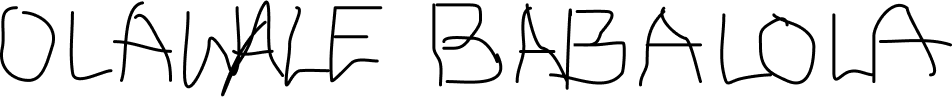
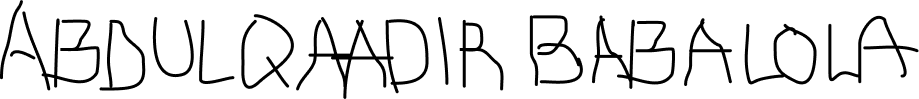
Changed signature and made the footer simple

Changed region(s): [[0.0, 0.0, 1.0, 1.0]]

diff --git a/src/App.tsx b/src/App.tsx
@@ -181,32 +181,31 @@ function App() {
       </main>
 
       {/* Footer */}
-      {/* <footer className="relative z-10 border-t border-gray-800"> */}
-        <div className="container mx-auto">
-
-          <div className="grid grid-cols-2 gap-4 md:flex-row justify-evenly items-center space-y-6 md:space-y-0">
-            <div className="flex flex-wrap justify-center md:justify-start gap-4 sm:gap-6 md:gap-8 sm:p-10 sm:bg-white sm:rounded-3xl">
-              <a href="#" className={`${isDarkMode ? 'text-gray-400 hover:text-white' : 'text-gray-600 hover:text-gray-900'} transition-colors duration-300`}>About us</a>
-              <a href="#" className={`${isDarkMode ? 'text-gray-400 hover:text-white' : 'text-gray-600 hover:text-gray-900'} transition-colors duration-300`}>Services</a>
-              <a href="#" className={`${isDarkMode ? 'text-gray-400 hover:text-white' : 'text-gray-600 hover:text-gray-900'} transition-colors duration-300`}>Careers</a>
-              <a href="#" className={`${isDarkMode ? 'text-gray-400 hover:text-white' : 'text-gray-600 hover:text-gray-900'} transition-colors duration-300`}>Products</a>
-            </div>
-
-            <div className="flex flex-wrap sm:flex-row items-center gap-3 w-full sm:w-auto sm:bg-white sm:p-10 sm:rounded-3xl">
-              <input
-                type="email"
-                placeholder="Enter your email address"
-                className={`px-4 py-2 rounded-lg w-full sm:w-auto ${
-                  isDarkMode ? 'bg-gray-800 text-white' : 'bg-gray-200 text-gray-900'
-                } focus:outline-none focus:ring-2 focus:ring-lime-400 transition-all duration-300`}
-              />
-              <button className="px-6 py-2 bg-lime-400 text-gray-900 rounded-lg hover:bg-lime-300 transition-colors duration-300 w-full sm:w-auto">
-                Subscribe
-              </button>
-            </div>
+      <footer className="bg-gray-900 text-white py-8">
+      <div className="container mx-auto">
+        <div className="grid grid-cols-1 md:grid-cols-2 gap-8 justify-between items-center">
+          {/* Links Section */}
+          <div className="flex flex-wrap justify-center md:justify-start gap-6">
+            <a href="#" className="text-gray-400 hover:text-white transition-colors duration-300">About us</a>
+            <a href="#" className="text-gray-400 hover:text-white transition-colors duration-300">Services</a>
+            <a href="#" className="text-gray-400 hover:text-white transition-colors duration-300">Careers</a>
+            <a href="#" className="text-gray-400 hover:text-white transition-colors duration-300">Products</a>
+          </div>
+          
+          {/* Subscription Section */}
+          <div className="flex flex-col sm:flex-row items-center justify-center md:justify-end gap-4 p-3">
+            <input
+              type="email"
+              placeholder="Enter email address"
+              className="px-4 py-2 rounded-lg w-full sm:w-64 bg-white text-gray-800 focus:outline-none"
+            />
+            <button className="px-6 py-2 bg-lime-400 text-gray-900 rounded-lg hover:bg-lime-300 transition-colors duration-300 w-full sm:w-auto">
+              Subscribe
+            </button>
           </div>
         </div>
-      {/* </footer> */}
+      </div>
+    </footer>
     </div>
   );
 }
